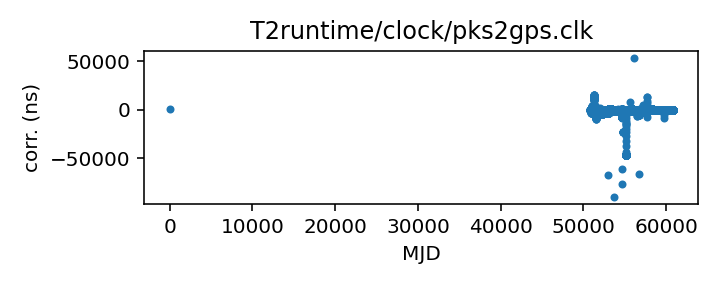
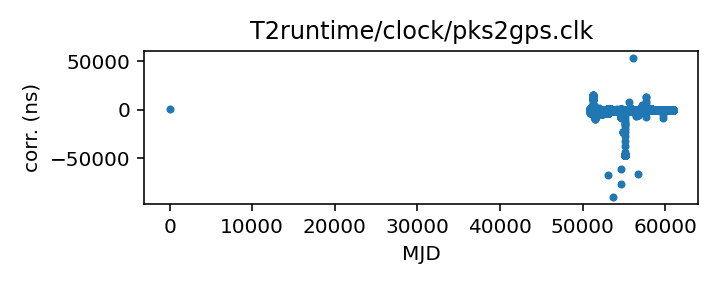
Routine gh-pages update from Github action Mon Nov  3 20:43:25 UTC 2025

diff --git a/status.md b/status.md
@@ -13,18 +13,18 @@ name of each clock file links to a page with more details.
 
 | Name | File | Corrections start | Corrections end | Last check date | Last check result 
 |:--- |:--- | --- | --- | --- |:--- 
-| [GPS to UTC](T2runtime/clock/gps2utc.clk.html) | `T2runtime/clock/gps2utc.clk` | 1993-01-01 MJD 48988.0 | 2025-09-26 MJD 60944.0 | 2025-11-02 | Unchanged 
-| [GPS to UTC (Combined Clock)](T2runtime/clock/gps2utc_cc.clk.html) | `T2runtime/clock/gps2utc_cc.clk` | 1993-01-01 MJD 48988.0 | 2025-09-26 MJD 60944.0 | 2025-11-02 | Unchanged 
-| [GPS to UTC (Corrected)](T2runtime/clock/gps2utc_c0p.clk.html) | `T2runtime/clock/gps2utc_c0p.clk` | 2010-12-29 MJD 55559.0 | 2025-09-26 MJD 60944.0 | 2025-11-02 | Unchanged 
-| [GBT](tempo/clock/time_gbt.dat.html) | `tempo/clock/time_gbt.dat` | 2000-12-31 MJD 51909.5 | 2025-11-01 MJD 60980.5 | 2025-11-02 | Updated 
-| [GBT (TEMPO2 converted from TEMPO)](T2runtime/clock/gbt2gps.clk.html) | `T2runtime/clock/gbt2gps.clk` | 2000-12-31 MJD 51909.5 | 2024-05-18 MJD 60448.5 | 2025-11-02 | **Validation failed** 
-| [Jodrell Bank](T2runtime/clock/jb2gps.clk.html) | `T2runtime/clock/jb2gps.clk` | 2006-10-13 MJD 54021.4 | 2025-10-08 MJD 60956.0 | 2025-10-27 | Unchanged 
-| [Jodrell Bank Roach](T2runtime/clock/jbroach2jb.clk.html) | `T2runtime/clock/jbroach2jb.clk` | 2006-10-13 MJD 54021.4 | 2018-03-20 MJD 58197.6 | 2025-10-27 | Unchanged 
-| [Jodrell Bank DFB](T2runtime/clock/jbdfb2jb.clk.html) | `T2runtime/clock/jbdfb2jb.clk` | 2006-10-13 MJD 54021.4 | 2021-02-22 MJD 59268.0 | 2025-10-27 | Unchanged 
-| [Meerkat (observatory)](T2runtime/clock/mk2utc_observatory.clk.html) | `T2runtime/clock/mk2utc_observatory.clk` | 2019-01-01 MJD 58484.0 | 2025-10-02 MJD 60951.0 | 2025-10-27 | Unchanged 
-| [Leap seconds](tempo/clock/leap.sec.html) | `tempo/clock/leap.sec` | 1972-07-01 MJD 41499.0 | 2017-01-01 MJD 57754.0 | 2025-11-02 | Unchanged 
-| [UT1 table](tempo/clock/ut1.dat.html) | `tempo/clock/ut1.dat` | 1973-01-02 MJD 41684.0 | 2026-11-07 MJD 61351.0 | 2025-11-02 | Unchanged 
-| [UT1 table](T2runtime/clock/ut1.dat.html) | `T2runtime/clock/ut1.dat` | 1973-01-02 MJD 41684.0 | 2026-11-07 MJD 61351.0 | 2025-11-02 | Unchanged 
+| [GPS to UTC](T2runtime/clock/gps2utc.clk.html) | `T2runtime/clock/gps2utc.clk` | 1993-01-01 MJD 48988.0 | 2025-09-26 MJD 60944.0 | 2025-11-03 | Unchanged 
+| [GPS to UTC (Combined Clock)](T2runtime/clock/gps2utc_cc.clk.html) | `T2runtime/clock/gps2utc_cc.clk` | 1993-01-01 MJD 48988.0 | 2025-09-26 MJD 60944.0 | 2025-11-03 | Unchanged 
+| [GPS to UTC (Corrected)](T2runtime/clock/gps2utc_c0p.clk.html) | `T2runtime/clock/gps2utc_c0p.clk` | 2010-12-29 MJD 55559.0 | 2025-09-26 MJD 60944.0 | 2025-11-03 | Unchanged 
+| [GBT](tempo/clock/time_gbt.dat.html) | `tempo/clock/time_gbt.dat` | 2000-12-31 MJD 51909.5 | 2025-11-02 MJD 60981.5 | 2025-11-03 | Updated 
+| [GBT (TEMPO2 converted from TEMPO)](T2runtime/clock/gbt2gps.clk.html) | `T2runtime/clock/gbt2gps.clk` | 2000-12-31 MJD 51909.5 | 2024-05-18 MJD 60448.5 | 2025-11-03 | **Validation failed** 
+| [Jodrell Bank](T2runtime/clock/jb2gps.clk.html) | `T2runtime/clock/jb2gps.clk` | 2006-10-13 MJD 54021.4 | 2025-10-08 MJD 60956.0 | 2025-11-03 | Unchanged 
+| [Jodrell Bank Roach](T2runtime/clock/jbroach2jb.clk.html) | `T2runtime/clock/jbroach2jb.clk` | 2006-10-13 MJD 54021.4 | 2018-03-20 MJD 58197.6 | 2025-11-03 | Unchanged 
+| [Jodrell Bank DFB](T2runtime/clock/jbdfb2jb.clk.html) | `T2runtime/clock/jbdfb2jb.clk` | 2006-10-13 MJD 54021.4 | 2021-02-22 MJD 59268.0 | 2025-11-03 | Unchanged 
+| [Meerkat (observatory)](T2runtime/clock/mk2utc_observatory.clk.html) | `T2runtime/clock/mk2utc_observatory.clk` | 2019-01-01 MJD 58484.0 | 2025-10-02 MJD 60951.0 | 2025-11-03 | Unchanged 
+| [Leap seconds](tempo/clock/leap.sec.html) | `tempo/clock/leap.sec` | 1972-07-01 MJD 41499.0 | 2017-01-01 MJD 57754.0 | 2025-11-03 | Unchanged 
+| [UT1 table](tempo/clock/ut1.dat.html) | `tempo/clock/ut1.dat` | 1973-01-02 MJD 41684.0 | 2026-11-07 MJD 61351.0 | 2025-11-03 | Unchanged 
+| [UT1 table](T2runtime/clock/ut1.dat.html) | `T2runtime/clock/ut1.dat` | 1973-01-02 MJD 41684.0 | 2026-11-07 MJD 61351.0 | 2025-11-03 | Unchanged 
 
 
 
@@ -68,26 +68,26 @@ name of each clock file links to a page with more details.
 
 | Name | File | Corrections start | Corrections end | Last check date | Last check result 
 |:--- |:--- | --- | --- | --- |:--- 
-| [GPS to UTC (TEMPO2)](T2runtime/clock/gpst2utc_tempo2.clk.html) | `T2runtime/clock/gpst2utc_tempo2.clk` | 1993-01-01 MJD 48988.0 | 2024-12-30 MJD 60674.0 | 2025-10-27 | Unchanged 
-| [GBT (TEMPO2)](T2runtime/clock/gbt2gps_tempo2.clk.html) | `T2runtime/clock/gbt2gps_tempo2.clk` | 2000-12-31 MJD 51909.5 | 2020-02-25 MJD 58904.5 | 2025-10-27 | Unchanged 
-| [Jodrell Bank (TEMPO)](tempo/clock/time_jb.dat.html) | `tempo/clock/time_jb.dat` | 2006-10-13 MJD 54021.4 | 2019-05-13 MJD 58616.2 | 2025-10-27 | Unchanged 
-| [VLA](tempo/clock/time_vla.dat.html) | `tempo/clock/time_vla.dat` | 1990-10-27 MJD 48191.2 | 2025-02-10 MJD 60716.2 | 2025-10-27 | Unchanged 
-| [VLA (TEMPO2)](T2runtime/clock/vla2gps.clk.html) | `T2runtime/clock/vla2gps.clk` | 2015-02-01 MJD 57054.6 | 2025-02-10 MJD 60716.2 | 2025-10-27 | Unchanged 
-| [VLA to NIST](T2runtime/clock/vla2nist.clk.html) | `T2runtime/clock/vla2nist.clk` | 1990-10-27 MJD 48191.2 | 1993-11-13 MJD 49304.0 | 2025-10-27 | Unchanged 
-| [FAST](tempo/clock/time_fast.dat.html) | `tempo/clock/time_fast.dat` | 2017-07-27 MJD 57961.0 | 2025-08-25 MJD 60913.0 | 2025-10-27 | **Failed to download** 
-| [WSRT](T2runtime/clock/wsrt2gps.clk.html) | `T2runtime/clock/wsrt2gps.clk` | 1999-01-01 MJD 51179.5 | 2015-06-29 MJD 57202.1 | 2025-10-27 | Unchanged 
-| [WSRT (TEMPO)](tempo/clock/time_wsrt.dat.html) | `tempo/clock/time_wsrt.dat` | 1987-07-24 MJD 47000.0 | 2007-12-24 MJD 54458.0 | 2025-10-27 | **Validation failed** 
-| [Parkes](T2runtime/clock/pks2gps.clk.html) | `T2runtime/clock/pks2gps.clk` | 1858-11-17 MJD 0.0 | 2025-06-30 MJD 60856.1 | 2025-10-27 | Unchanged 
-| [Parkes (TEMPO)](tempo/clock/time_pks.dat.html) | `tempo/clock/time_pks.dat` | 1979-05-07 MJD 44000.0 | 2011-07-03 MJD 55745.8 | 2025-10-27 | Unchanged 
-| [SRT](T2runtime/clock/srt2gps.clk.html) | `T2runtime/clock/srt2gps.clk` | 2013-03-20 MJD 56371.0 | 2019-12-11 MJD 58828.0 | 2025-10-27 | Unchanged 
-| [Effelsberg](T2runtime/clock/eff2gps.clk.html) | `T2runtime/clock/eff2gps.clk` | 1993-11-29 MJD 49320.0 | 2015-06-22 MJD 57195.5 | 2025-10-27 | Unchanged 
-| [Effelsberg Asterix/PSRix](T2runtime/clock/effix2gps.clk.html) | `T2runtime/clock/effix2gps.clk` | 2011-01-01 MJD 55562.5 | 2021-03-21 MJD 59294.5 | 2025-10-27 | Unchanged 
-| [LEAP](T2runtime/clock/leap2effix.clk.html) | `T2runtime/clock/leap2effix.clk` | 2012-10-29 MJD 56230.0 | 2014-03-04 MJD 56720.0 | 2025-10-27 | Unchanged 
-| [NUPPI](tempo/clock/time_nuppi.dat.html) | `tempo/clock/time_nuppi.dat` | 2005-03-07 MJD 53436.0 | 2015-11-08 MJD 57334.6 | 2025-10-27 | Unchanged 
-| [Meerkat (TEMPO2)](T2runtime/clock/mk2utc.clk.html) | `T2runtime/clock/mk2utc.clk` | 2019-01-01 MJD 58484.0 | 2024-09-23 MJD 60576.9 | 2025-10-27 | **Validation failed** 
-| [MOST](T2runtime/clock/mo2gps.clk.html) | `T2runtime/clock/mo2gps.clk` | 2003-12-27 MJD 53000.0 | 2018-09-06 MJD 58367.0 | 2025-10-27 | Unchanged 
-| [Nancay to obspm](T2runtime/clock/ncyobs2obspm.clk.html) | `T2runtime/clock/ncyobs2obspm.clk` | 1988-05-18 MJD 47299.6 | 2024-12-30 MJD 60674.0 | 2025-10-27 | Unchanged 
-| [obspm](T2runtime/clock/obspm2gps.clk.html) | `T2runtime/clock/obspm2gps.clk` | 2003-12-01 MJD 52974.0 | 2023-10-27 MJD 60244.0 | 2025-10-27 | Unchanged 
+| [GPS to UTC (TEMPO2)](T2runtime/clock/gpst2utc_tempo2.clk.html) | `T2runtime/clock/gpst2utc_tempo2.clk` | 1993-01-01 MJD 48988.0 | 2024-12-30 MJD 60674.0 | 2025-11-03 | Unchanged 
+| [GBT (TEMPO2)](T2runtime/clock/gbt2gps_tempo2.clk.html) | `T2runtime/clock/gbt2gps_tempo2.clk` | 2000-12-31 MJD 51909.5 | 2020-02-25 MJD 58904.5 | 2025-11-03 | Unchanged 
+| [Jodrell Bank (TEMPO)](tempo/clock/time_jb.dat.html) | `tempo/clock/time_jb.dat` | 2006-10-13 MJD 54021.4 | 2019-05-13 MJD 58616.2 | 2025-11-03 | Unchanged 
+| [VLA](tempo/clock/time_vla.dat.html) | `tempo/clock/time_vla.dat` | 1990-10-27 MJD 48191.2 | 2025-02-10 MJD 60716.2 | 2025-11-03 | Unchanged 
+| [VLA (TEMPO2)](T2runtime/clock/vla2gps.clk.html) | `T2runtime/clock/vla2gps.clk` | 2015-02-01 MJD 57054.6 | 2025-02-10 MJD 60716.2 | 2025-11-03 | Unchanged 
+| [VLA to NIST](T2runtime/clock/vla2nist.clk.html) | `T2runtime/clock/vla2nist.clk` | 1990-10-27 MJD 48191.2 | 1993-11-13 MJD 49304.0 | 2025-11-03 | Unchanged 
+| [FAST](tempo/clock/time_fast.dat.html) | `tempo/clock/time_fast.dat` | 2017-07-27 MJD 57961.0 | 2025-08-25 MJD 60913.0 | 2025-11-03 | **Failed to download** 
+| [WSRT](T2runtime/clock/wsrt2gps.clk.html) | `T2runtime/clock/wsrt2gps.clk` | 1999-01-01 MJD 51179.5 | 2015-06-29 MJD 57202.1 | 2025-11-03 | Unchanged 
+| [WSRT (TEMPO)](tempo/clock/time_wsrt.dat.html) | `tempo/clock/time_wsrt.dat` | 1987-07-24 MJD 47000.0 | 2007-12-24 MJD 54458.0 | 2025-11-03 | **Validation failed** 
+| [Parkes](T2runtime/clock/pks2gps.clk.html) | `T2runtime/clock/pks2gps.clk` | 1858-11-17 MJD 0.0 | 2025-10-31 MJD 60979.1 | 2025-11-03 | Updated 
+| [Parkes (TEMPO)](tempo/clock/time_pks.dat.html) | `tempo/clock/time_pks.dat` | 1979-05-07 MJD 44000.0 | 2011-07-03 MJD 55745.8 | 2025-11-03 | Unchanged 
+| [SRT](T2runtime/clock/srt2gps.clk.html) | `T2runtime/clock/srt2gps.clk` | 2013-03-20 MJD 56371.0 | 2019-12-11 MJD 58828.0 | 2025-11-03 | Unchanged 
+| [Effelsberg](T2runtime/clock/eff2gps.clk.html) | `T2runtime/clock/eff2gps.clk` | 1993-11-29 MJD 49320.0 | 2015-06-22 MJD 57195.5 | 2025-11-03 | Unchanged 
+| [Effelsberg Asterix/PSRix](T2runtime/clock/effix2gps.clk.html) | `T2runtime/clock/effix2gps.clk` | 2011-01-01 MJD 55562.5 | 2021-03-21 MJD 59294.5 | 2025-11-03 | Unchanged 
+| [LEAP](T2runtime/clock/leap2effix.clk.html) | `T2runtime/clock/leap2effix.clk` | 2012-10-29 MJD 56230.0 | 2014-03-04 MJD 56720.0 | 2025-11-03 | Unchanged 
+| [NUPPI](tempo/clock/time_nuppi.dat.html) | `tempo/clock/time_nuppi.dat` | 2005-03-07 MJD 53436.0 | 2015-11-08 MJD 57334.6 | 2025-11-03 | Unchanged 
+| [Meerkat (TEMPO2)](T2runtime/clock/mk2utc.clk.html) | `T2runtime/clock/mk2utc.clk` | 2019-01-01 MJD 58484.0 | 2024-09-23 MJD 60576.9 | 2025-11-03 | **Validation failed** 
+| [MOST](T2runtime/clock/mo2gps.clk.html) | `T2runtime/clock/mo2gps.clk` | 2003-12-27 MJD 53000.0 | 2018-09-06 MJD 58367.0 | 2025-11-03 | Unchanged 
+| [Nancay to obspm](T2runtime/clock/ncyobs2obspm.clk.html) | `T2runtime/clock/ncyobs2obspm.clk` | 1988-05-18 MJD 47299.6 | 2024-12-30 MJD 60674.0 | 2025-11-03 | Unchanged 
+| [obspm](T2runtime/clock/obspm2gps.clk.html) | `T2runtime/clock/obspm2gps.clk` | 2003-12-01 MJD 52974.0 | 2023-10-27 MJD 60244.0 | 2025-11-03 | Unchanged 
 
 
 ### Further information:

diff --git a/T2runtime/clock/gbt2gps.clk.md b/T2runtime/clock/gbt2gps.clk.md
@@ -25,12 +25,11 @@ If questions arise about the conversion, contact Anne Archibald
 | Clock file start | 2000-12-31 MJD 51909.5 |
 | Clock file end | 2024-05-18 MJD 60448.5 |
 | Update interval (days) | 1 |
-| Last update attempt | 2025-11-02 |
+| Last update attempt | 2025-11-03 |
 | Last update result | Validation failed |
 
 Log entries from the last few update attempts:
 ```
-2025-10-24 20:41:30.859 - Validation failed: New version of T2runtime/clock/gbt2gps.clk MJDs differ from old version where they overlap in 8407 places
 2025-10-25 20:38:35.316 - Validation failed: New version of T2runtime/clock/gbt2gps.clk MJDs differ from old version where they overlap in 8407 places
 2025-10-26 20:39:40.392 - Validation failed: New version of T2runtime/clock/gbt2gps.clk MJDs differ from old version where they overlap in 8407 places
 2025-10-27 20:39:55.984 - Validation failed: New version of T2runtime/clock/gbt2gps.clk MJDs differ from old version where they overlap in 8407 places
@@ -40,6 +39,7 @@ Log entries from the last few update attempts:
 2025-10-31 20:40:52.423 - Validation failed: New version of T2runtime/clock/gbt2gps.clk MJDs differ from old version where they overlap in 8407 places
 2025-11-01 20:36:37.992 - Validation failed: New version of T2runtime/clock/gbt2gps.clk MJDs differ from old version where they overlap in 8407 places
 2025-11-02 20:37:22.888 - Validation failed: New version of T2runtime/clock/gbt2gps.clk MJDs differ from old version where they overlap in 8407 places
+2025-11-03 20:42:23.385 - Validation failed: New version of T2runtime/clock/gbt2gps.clk MJDs differ from old version where they overlap in 8407 places
 ```
 [Full log](https://raw.githubusercontent.com/ipta/pulsar-clock-corrections/main/log/T2runtime/clock/gbt2gps.clk.log)
 

diff --git a/T2runtime/clock/mk2utc.clk.md b/T2runtime/clock/mk2utc.clk.md
@@ -17,12 +17,11 @@ up-to-date.
 | Clock file start | 2019-01-01 MJD 58484.0 |
 | Clock file end | 2024-09-23 MJD 60576.9 |
 | Update interval (days) | 7 |
-| Last update attempt | 2025-10-27 |
+| Last update attempt | 2025-11-03 |
 | Last update result | Validation failed |
 
 Log entries from the last few update attempts:
 ```
-2025-08-25 20:42:36.637 - Validation failed: New version of T2runtime/clock/mk2utc.clk MJDs differ from old version where they overlap in 8252 places
 2025-09-01 20:38:36.267 - Validation failed: New version of T2runtime/clock/mk2utc.clk MJDs differ from old version where they overlap in 8252 places
 2025-09-08 20:40:40.602 - Validation failed: New version of T2runtime/clock/mk2utc.clk MJDs differ from old version where they overlap in 8252 places
 2025-09-15 20:38:24.488 - Validation failed: New version of T2runtime/clock/mk2utc.clk MJDs differ from old version where they overlap in 8252 places
@@ -32,6 +31,7 @@ Log entries from the last few update attempts:
 2025-10-13 20:39:52.771 - Validation failed: New version of T2runtime/clock/mk2utc.clk MJDs differ from old version where they overlap in 8252 places
 2025-10-20 20:42:38.257 - Validation failed: New version of T2runtime/clock/mk2utc.clk MJDs differ from old version where they overlap in 8252 places
 2025-10-27 20:40:10.855 - Validation failed: New version of T2runtime/clock/mk2utc.clk MJDs differ from old version where they overlap in 8252 places
+2025-11-03 20:43:01.067 - Validation failed: New version of T2runtime/clock/mk2utc.clk MJDs differ from old version where they overlap in 8252 places
 ```
 [Full log](https://raw.githubusercontent.com/ipta/pulsar-clock-corrections/main/log/T2runtime/clock/mk2utc.clk.log)
 

diff --git a/tempo/clock/time_wsrt.dat.md b/tempo/clock/time_wsrt.dat.md
@@ -20,12 +20,11 @@ should be the same information.
 | Clock file start | 1987-07-24 MJD 47000.0 |
 | Clock file end | 2007-12-24 MJD 54458.0 |
 | Update interval (days) | 7 |
-| Last update attempt | 2025-10-27 |
+| Last update attempt | 2025-11-03 |
 | Last update result | Validation failed |
 
 Log entries from the last few update attempts:
 ```
-2025-08-25 20:42:24.255 - Validation failed: New version of tempo/clock/time_wsrt.dat MJDs differ from old version where they overlap in 5 places
 2025-09-01 20:38:23.095 - Validation failed: New version of tempo/clock/time_wsrt.dat MJDs differ from old version where they overlap in 5 places
 2025-09-08 20:40:29.445 - Validation failed: New version of tempo/clock/time_wsrt.dat MJDs differ from old version where they overlap in 5 places
 2025-09-15 20:38:14.339 - Validation failed: New version of tempo/clock/time_wsrt.dat MJDs differ from old version where they overlap in 5 places
@@ -35,6 +34,7 @@ Log entries from the last few update attempts:
 2025-10-13 20:39:41.501 - Validation failed: New version of tempo/clock/time_wsrt.dat MJDs differ from old version where they overlap in 5 places
 2025-10-20 20:42:26.146 - Validation failed: New version of tempo/clock/time_wsrt.dat MJDs differ from old version where they overlap in 5 places
 2025-10-27 20:39:59.582 - Validation failed: New version of tempo/clock/time_wsrt.dat MJDs differ from old version where they overlap in 5 places
+2025-11-03 20:42:27.208 - Validation failed: New version of tempo/clock/time_wsrt.dat MJDs differ from old version where they overlap in 5 places
 ```
 [Full log](https://raw.githubusercontent.com/ipta/pulsar-clock-corrections/main/log/tempo/clock/time_wsrt.dat.log)
 

diff --git a/T2runtime/clock/pks2gps.clk.md b/T2runtime/clock/pks2gps.clk.md
@@ -29,18 +29,17 @@ we retain it.
 | File | `T2runtime/clock/pks2gps.clk` |
 | Authority | temporary |
 | URL in repository | <https://raw.githubusercontent.com/ipta/pulsar-clock-corrections/main/T2runtime/clock/pks2gps.clk> |
-| Original download URL | <https://www.parkes.atnf.csiro.au/observing/clockfiles/pks2gps.clk.20250701> |
+| Original download URL | <https://www.parkes.atnf.csiro.au/observing/clockfiles/pks2gps.clk.20251101> |
 | Format | tempo2 |
 | Bogus last correction | False |
 | Clock file start | 1858-11-17 MJD 0.0 |
-| Clock file end | 2025-06-30 MJD 60856.1 |
+| Clock file end | 2025-10-31 MJD 60979.1 |
 | Update interval (days) | 7 |
-| Last update attempt | 2025-10-27 |
-| Last update result | Unchanged |
+| Last update attempt | 2025-11-03 |
+| Last update result | Updated |
 
 Log entries from the last few update attempts:
 ```
-2025-08-25 20:42:27.648 - Unchanged
 2025-09-01 20:38:26.998 - Unchanged
 2025-09-08 20:40:34.487 - Unchanged
 2025-09-15 20:38:19.101 - Unchanged
@@ -50,6 +49,7 @@ Log entries from the last few update attempts:
 2025-10-13 20:39:46.433 - Unchanged
 2025-10-20 20:42:32.029 - Unchanged
 2025-10-27 20:40:03.699 - Unchanged
+2025-11-03 20:42:31.755 - Updated
 ```
 [Full log](https://raw.githubusercontent.com/ipta/pulsar-clock-corrections/main/log/T2runtime/clock/pks2gps.clk.log)
 

diff --git a/tempo/clock/time_gbt.dat.md b/tempo/clock/time_gbt.dat.md
@@ -36,14 +36,13 @@ If questions arise, contact Ryan S. Lynch <rlynch@nrao.edu>.
 | Format | tempo |
 | Bogus last correction | False |
 | Clock file start | 2000-12-31 MJD 51909.5 |
-| Clock file end | 2025-11-01 MJD 60980.5 |
+| Clock file end | 2025-11-02 MJD 60981.5 |
 | Update interval (days) | 1 |
-| Last update attempt | 2025-11-02 |
+| Last update attempt | 2025-11-03 |
 | Last update result | Updated |
 
 Log entries from the last few update attempts:
 ```
-2025-10-24 20:41:30.792 - Updated
 2025-10-25 20:38:35.251 - Updated
 2025-10-26 20:39:40.326 - Updated
 2025-10-27 20:39:55.654 - Updated
@@ -53,12 +52,13 @@ Log entries from the last few update attempts:
 2025-10-31 20:40:52.357 - Updated
 2025-11-01 20:36:37.925 - Updated
 2025-11-02 20:37:22.827 - Updated
+2025-11-03 20:42:23.006 - Updated
 ```
 [Full log](https://raw.githubusercontent.com/ipta/pulsar-clock-corrections/main/log/tempo/clock/time_gbt.dat.log)
 
 Leading comments from clock file:
 
-     -2271.50       0.0        -0.486 1    32765-dec
+     -2271.50       0.0        -0.486 1    32767-dec
 
 
 

diff --git a/tempo/clock/time_fast.dat.md b/tempo/clock/time_fast.dat.md
@@ -16,12 +16,11 @@ This file is pulled from the FAST_ClockFile repository.
 | Clock file start | 2017-07-27 MJD 57961.0 |
 | Clock file end | 2025-08-25 MJD 60913.0 |
 | Update interval (days) | 7 |
-| Last update attempt | 2025-10-27 |
+| Last update attempt | 2025-11-03 |
 | Last update result | Failed to download |
 
 Log entries from the last few update attempts:
 ```
-2025-08-25 20:42:23.417 - Updated
 2025-09-01 20:38:22.263 - Updated
 2025-09-08 20:40:28.888 - Unchanged
 2025-09-15 20:38:13.792 - Unchanged
@@ -31,6 +30,7 @@ Log entries from the last few update attempts:
 2025-10-13 20:39:40.875 - Failed to download: HTTP Error 404: Not Found
 2025-10-20 20:42:25.725 - Failed to download: HTTP Error 404: Not Found
 2025-10-27 20:39:58.812 - Failed to download: HTTP Error 404: Not Found
+2025-11-03 20:42:26.602 - Failed to download: HTTP Error 404: Not Found
 ```
 [Full log](https://raw.githubusercontent.com/ipta/pulsar-clock-corrections/main/log/tempo/clock/time_fast.dat.log)
 

diff --git a/T2runtime/clock/mk2utc_observatory.clk.md b/T2runtime/clock/mk2utc_observatory.clk.md
@@ -21,12 +21,11 @@ If questions arise, contact Ryan Shannon <rshannon@swin.edu.au>
 | Clock file start | 2019-01-01 MJD 58484.0 |
 | Clock file end | 2025-10-02 MJD 60951.0 |
 | Update interval (days) | 7 |
-| Last update attempt | 2025-10-27 |
+| Last update attempt | 2025-11-03 |
 | Last update result | Unchanged |
 
 Log entries from the last few update attempts:
 ```
-2025-08-25 20:42:34.702 - Unchanged
 2025-09-01 20:38:34.421 - Updated
 2025-09-08 20:40:39.300 - Updated
 2025-09-15 20:38:23.219 - Unchanged
@@ -36,6 +35,7 @@ Log entries from the last few update attempts:
 2025-10-13 20:39:51.453 - Updated
 2025-10-20 20:42:36.844 - Unchanged
 2025-10-27 20:40:09.489 - Unchanged
+2025-11-03 20:42:59.579 - Unchanged
 ```
 [Full log](https://raw.githubusercontent.com/ipta/pulsar-clock-corrections/main/log/T2runtime/clock/mk2utc_observatory.clk.log)
 

diff --git a/T2runtime/clock/gps2utc_c0p.clk.md b/T2runtime/clock/gps2utc_c0p.clk.md
@@ -30,12 +30,11 @@ about the BIPM's published corrections, contact <tai@bipm.org>.
 | Clock file start | 2010-12-29 MJD 55559.0 |
 | Clock file end | 2025-09-26 MJD 60944.0 |
 | Update interval (days) | 1 |
-| Last update attempt | 2025-11-02 |
+| Last update attempt | 2025-11-03 |
 | Last update result | Unchanged |
 
 Log entries from the last few update attempts:
 ```
-2025-10-24 20:41:29.832 - Unchanged
 2025-10-25 20:38:34.748 - Unchanged
 2025-10-26 20:39:39.785 - Unchanged
 2025-10-27 20:39:55.201 - Unchanged
@@ -45,6 +44,7 @@ Log entries from the last few update attempts:
 2025-10-31 20:40:51.390 - Unchanged
 2025-11-01 20:36:37.037 - Unchanged
 2025-11-02 20:37:21.945 - Unchanged
+2025-11-03 20:42:22.512 - Unchanged
 ```
 [Full log](https://raw.githubusercontent.com/ipta/pulsar-clock-corrections/main/log/T2runtime/clock/gps2utc_c0p.clk.log)
 

diff --git a/T2runtime/clock/gps2utc_cc.clk.md b/T2runtime/clock/gps2utc_cc.clk.md
@@ -29,12 +29,11 @@ about the BIPM's published corrections, contact <tai@bipm.org>.
 | Clock file start | 1993-01-01 MJD 48988.0 |
 | Clock file end | 2025-09-26 MJD 60944.0 |
 | Update interval (days) | 1 |
-| Last update attempt | 2025-11-02 |
+| Last update attempt | 2025-11-03 |
 | Last update result | Unchanged |
 
 Log entries from the last few update attempts:
 ```
-2025-10-24 20:41:29.824 - Unchanged
 2025-10-25 20:38:34.740 - Unchanged
 2025-10-26 20:39:39.777 - Unchanged
 2025-10-27 20:39:55.193 - Unchanged
@@ -44,6 +43,7 @@ Log entries from the last few update attempts:
 2025-10-31 20:40:51.382 - Unchanged
 2025-11-01 20:36:37.028 - Unchanged
 2025-11-02 20:37:21.938 - Unchanged
+2025-11-03 20:42:22.505 - Unchanged
 ```
 [Full log](https://raw.githubusercontent.com/ipta/pulsar-clock-corrections/main/log/T2runtime/clock/gps2utc_cc.clk.log)
 

diff --git a/tempo/clock/time_pks.dat.md b/tempo/clock/time_pks.dat.md
@@ -20,12 +20,11 @@ telescopes in the same file, distinguished only by observatory code.
 | Clock file start | 1979-05-07 MJD 44000.0 |
 | Clock file end | 2011-07-03 MJD 55745.8 |
 | Update interval (days) | 7 |
-| Last update attempt | 2025-10-27 |
+| Last update attempt | 2025-11-03 |
 | Last update result | Unchanged |
 
 Log entries from the last few update attempts:
 ```
-2025-08-25 20:42:27.890 - Unchanged
 2025-09-01 20:38:27.261 - Unchanged
 2025-09-08 20:40:34.787 - Unchanged
 2025-09-15 20:38:19.524 - Unchanged
@@ -35,6 +34,7 @@ Log entries from the last few update attempts:
 2025-10-13 20:39:46.707 - Unchanged
 2025-10-20 20:42:32.593 - Unchanged
 2025-10-27 20:40:04.273 - Unchanged
+2025-11-03 20:42:32.121 - Unchanged
 ```
 [Full log](https://raw.githubusercontent.com/ipta/pulsar-clock-corrections/main/log/tempo/clock/time_pks.dat.log)
 

diff --git a/T2runtime/clock/gps2utc.clk.md b/T2runtime/clock/gps2utc.clk.md
@@ -32,12 +32,11 @@ about the BIPM's published corrections, contact <tai@bipm.org>.
 | Clock file start | 1993-01-01 MJD 48988.0 |
 | Clock file end | 2025-09-26 MJD 60944.0 |
 | Update interval (days) | 1 |
-| Last update attempt | 2025-11-02 |
+| Last update attempt | 2025-11-03 |
 | Last update result | Unchanged |
 
 Log entries from the last few update attempts:
 ```
-2025-10-24 20:41:29.802 - Unchanged
 2025-10-25 20:38:34.719 - Unchanged
 2025-10-26 20:39:39.755 - Unchanged
 2025-10-27 20:39:55.170 - Unchanged
@@ -47,6 +46,7 @@ Log entries from the last few update attempts:
 2025-10-31 20:40:51.358 - Unchanged
 2025-11-01 20:36:37.005 - Unchanged
 2025-11-02 20:37:21.917 - Unchanged
+2025-11-03 20:42:22.484 - Unchanged
 ```
 [Full log](https://raw.githubusercontent.com/ipta/pulsar-clock-corrections/main/log/T2runtime/clock/gps2utc.clk.log)
 
